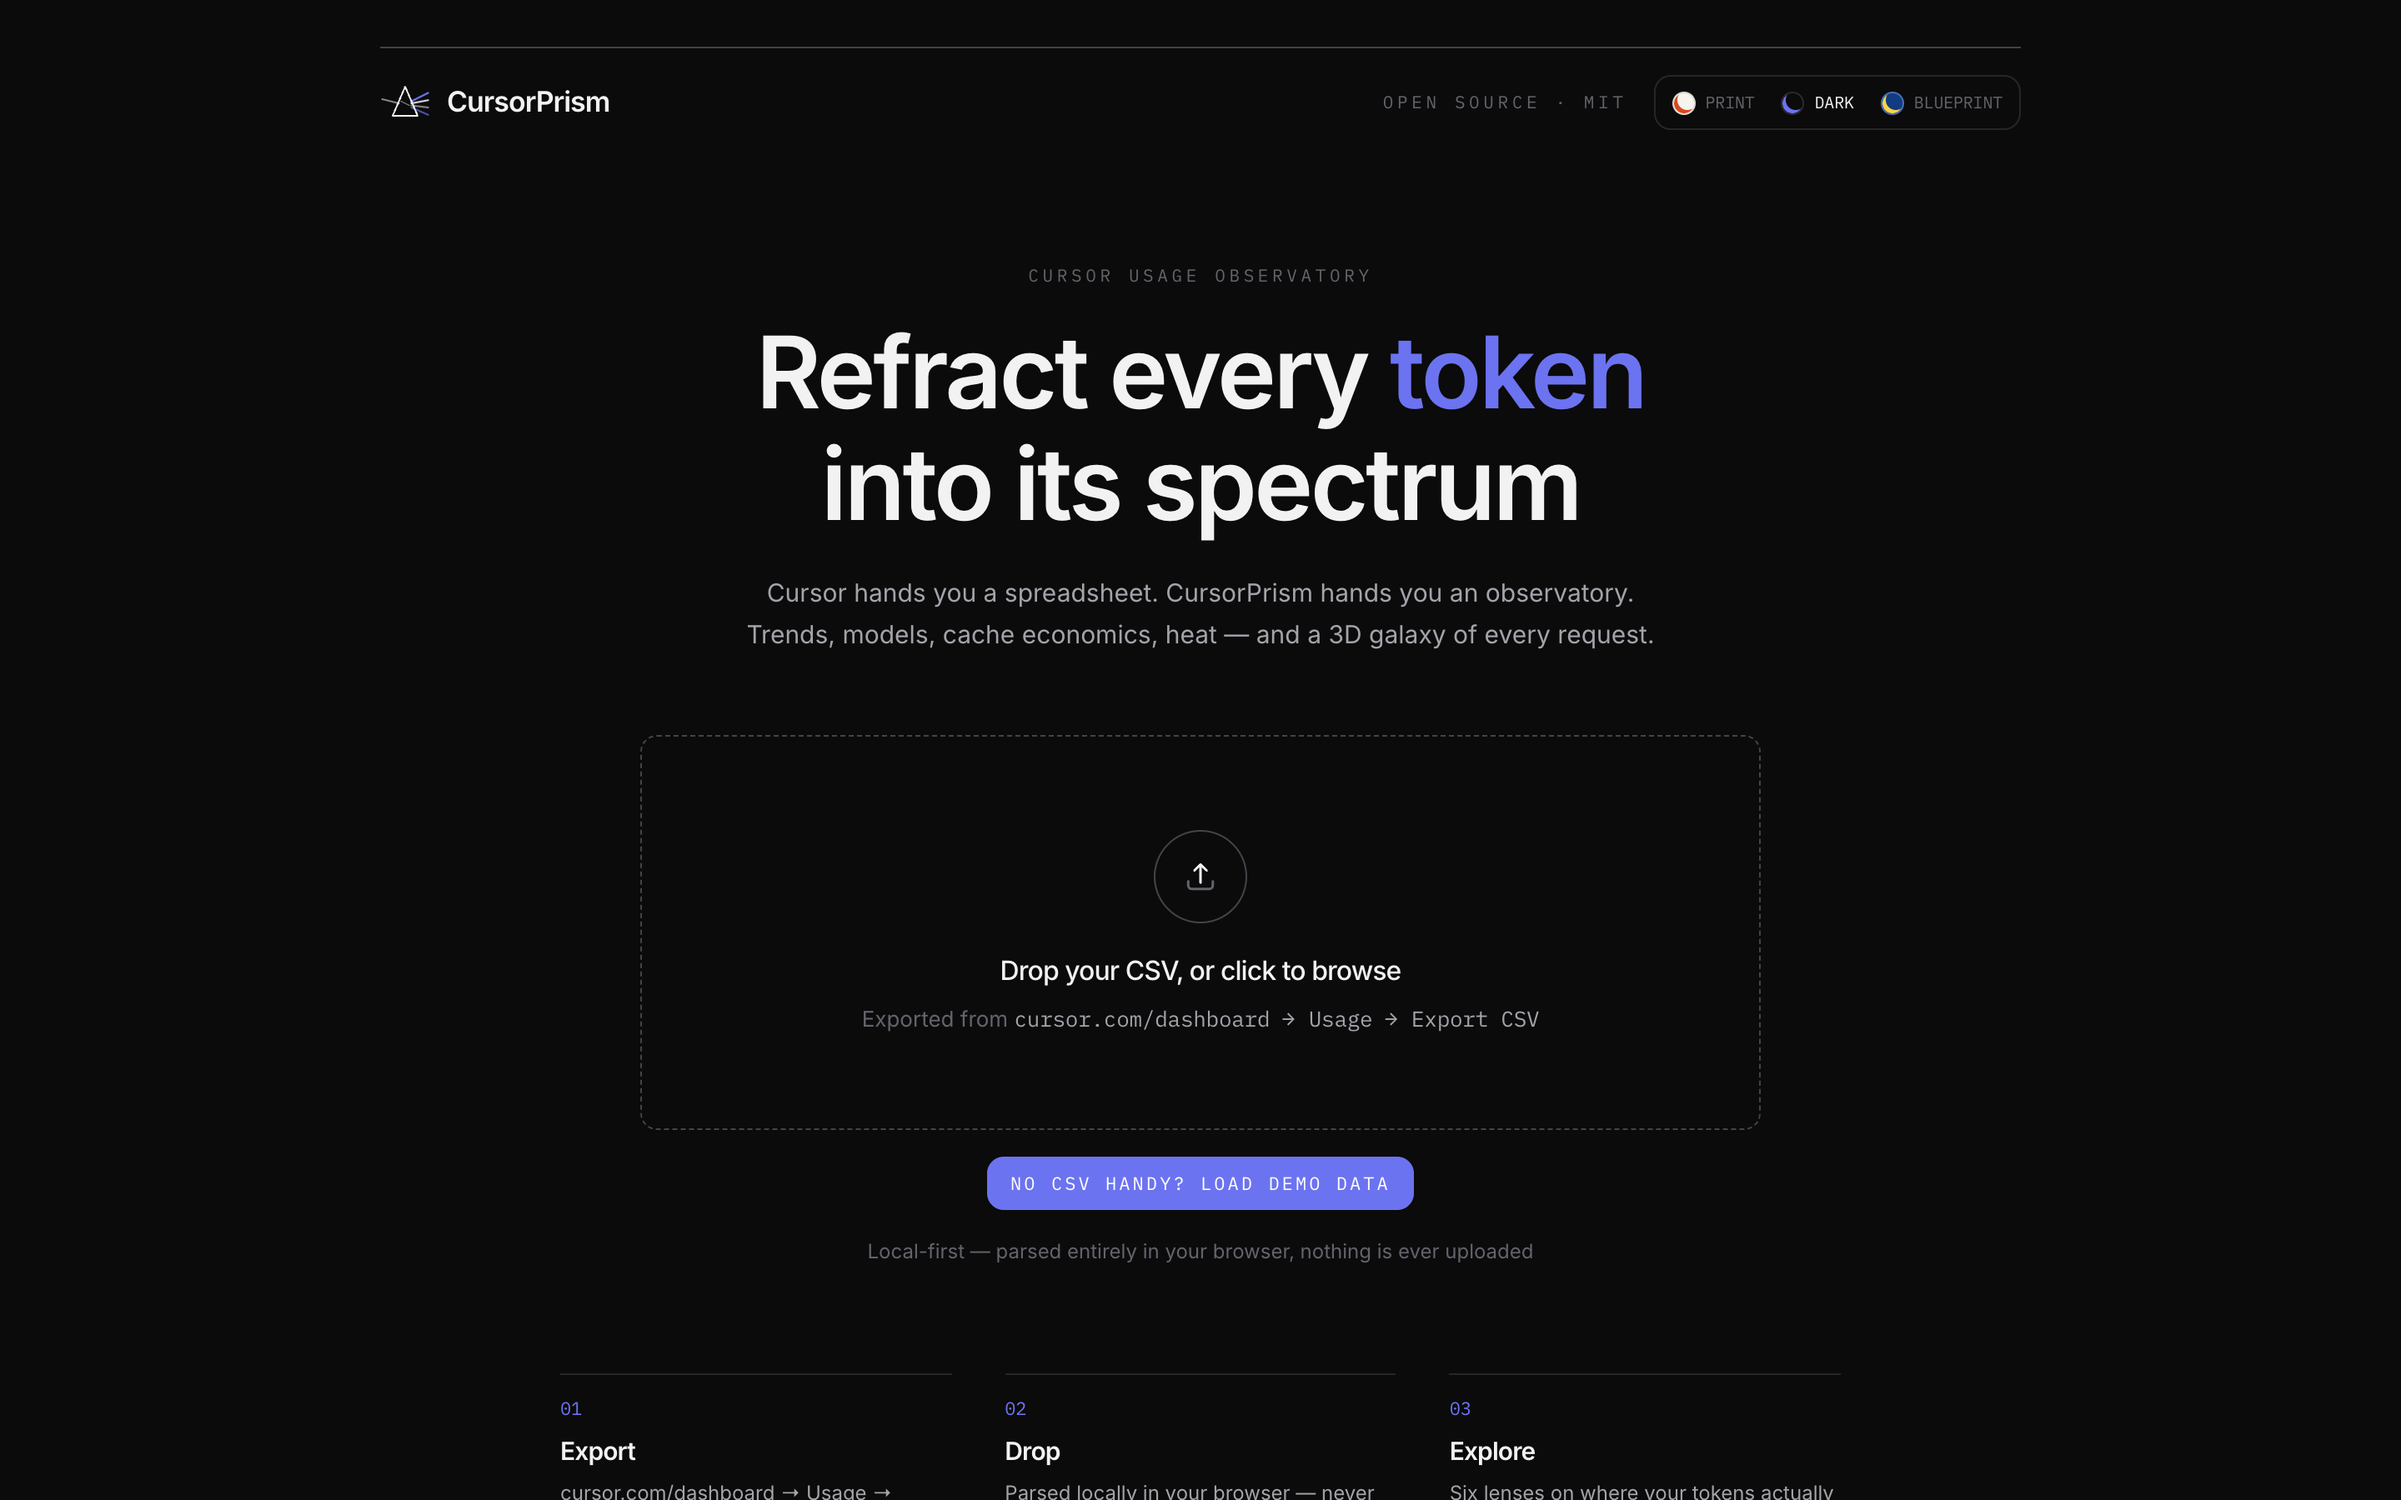
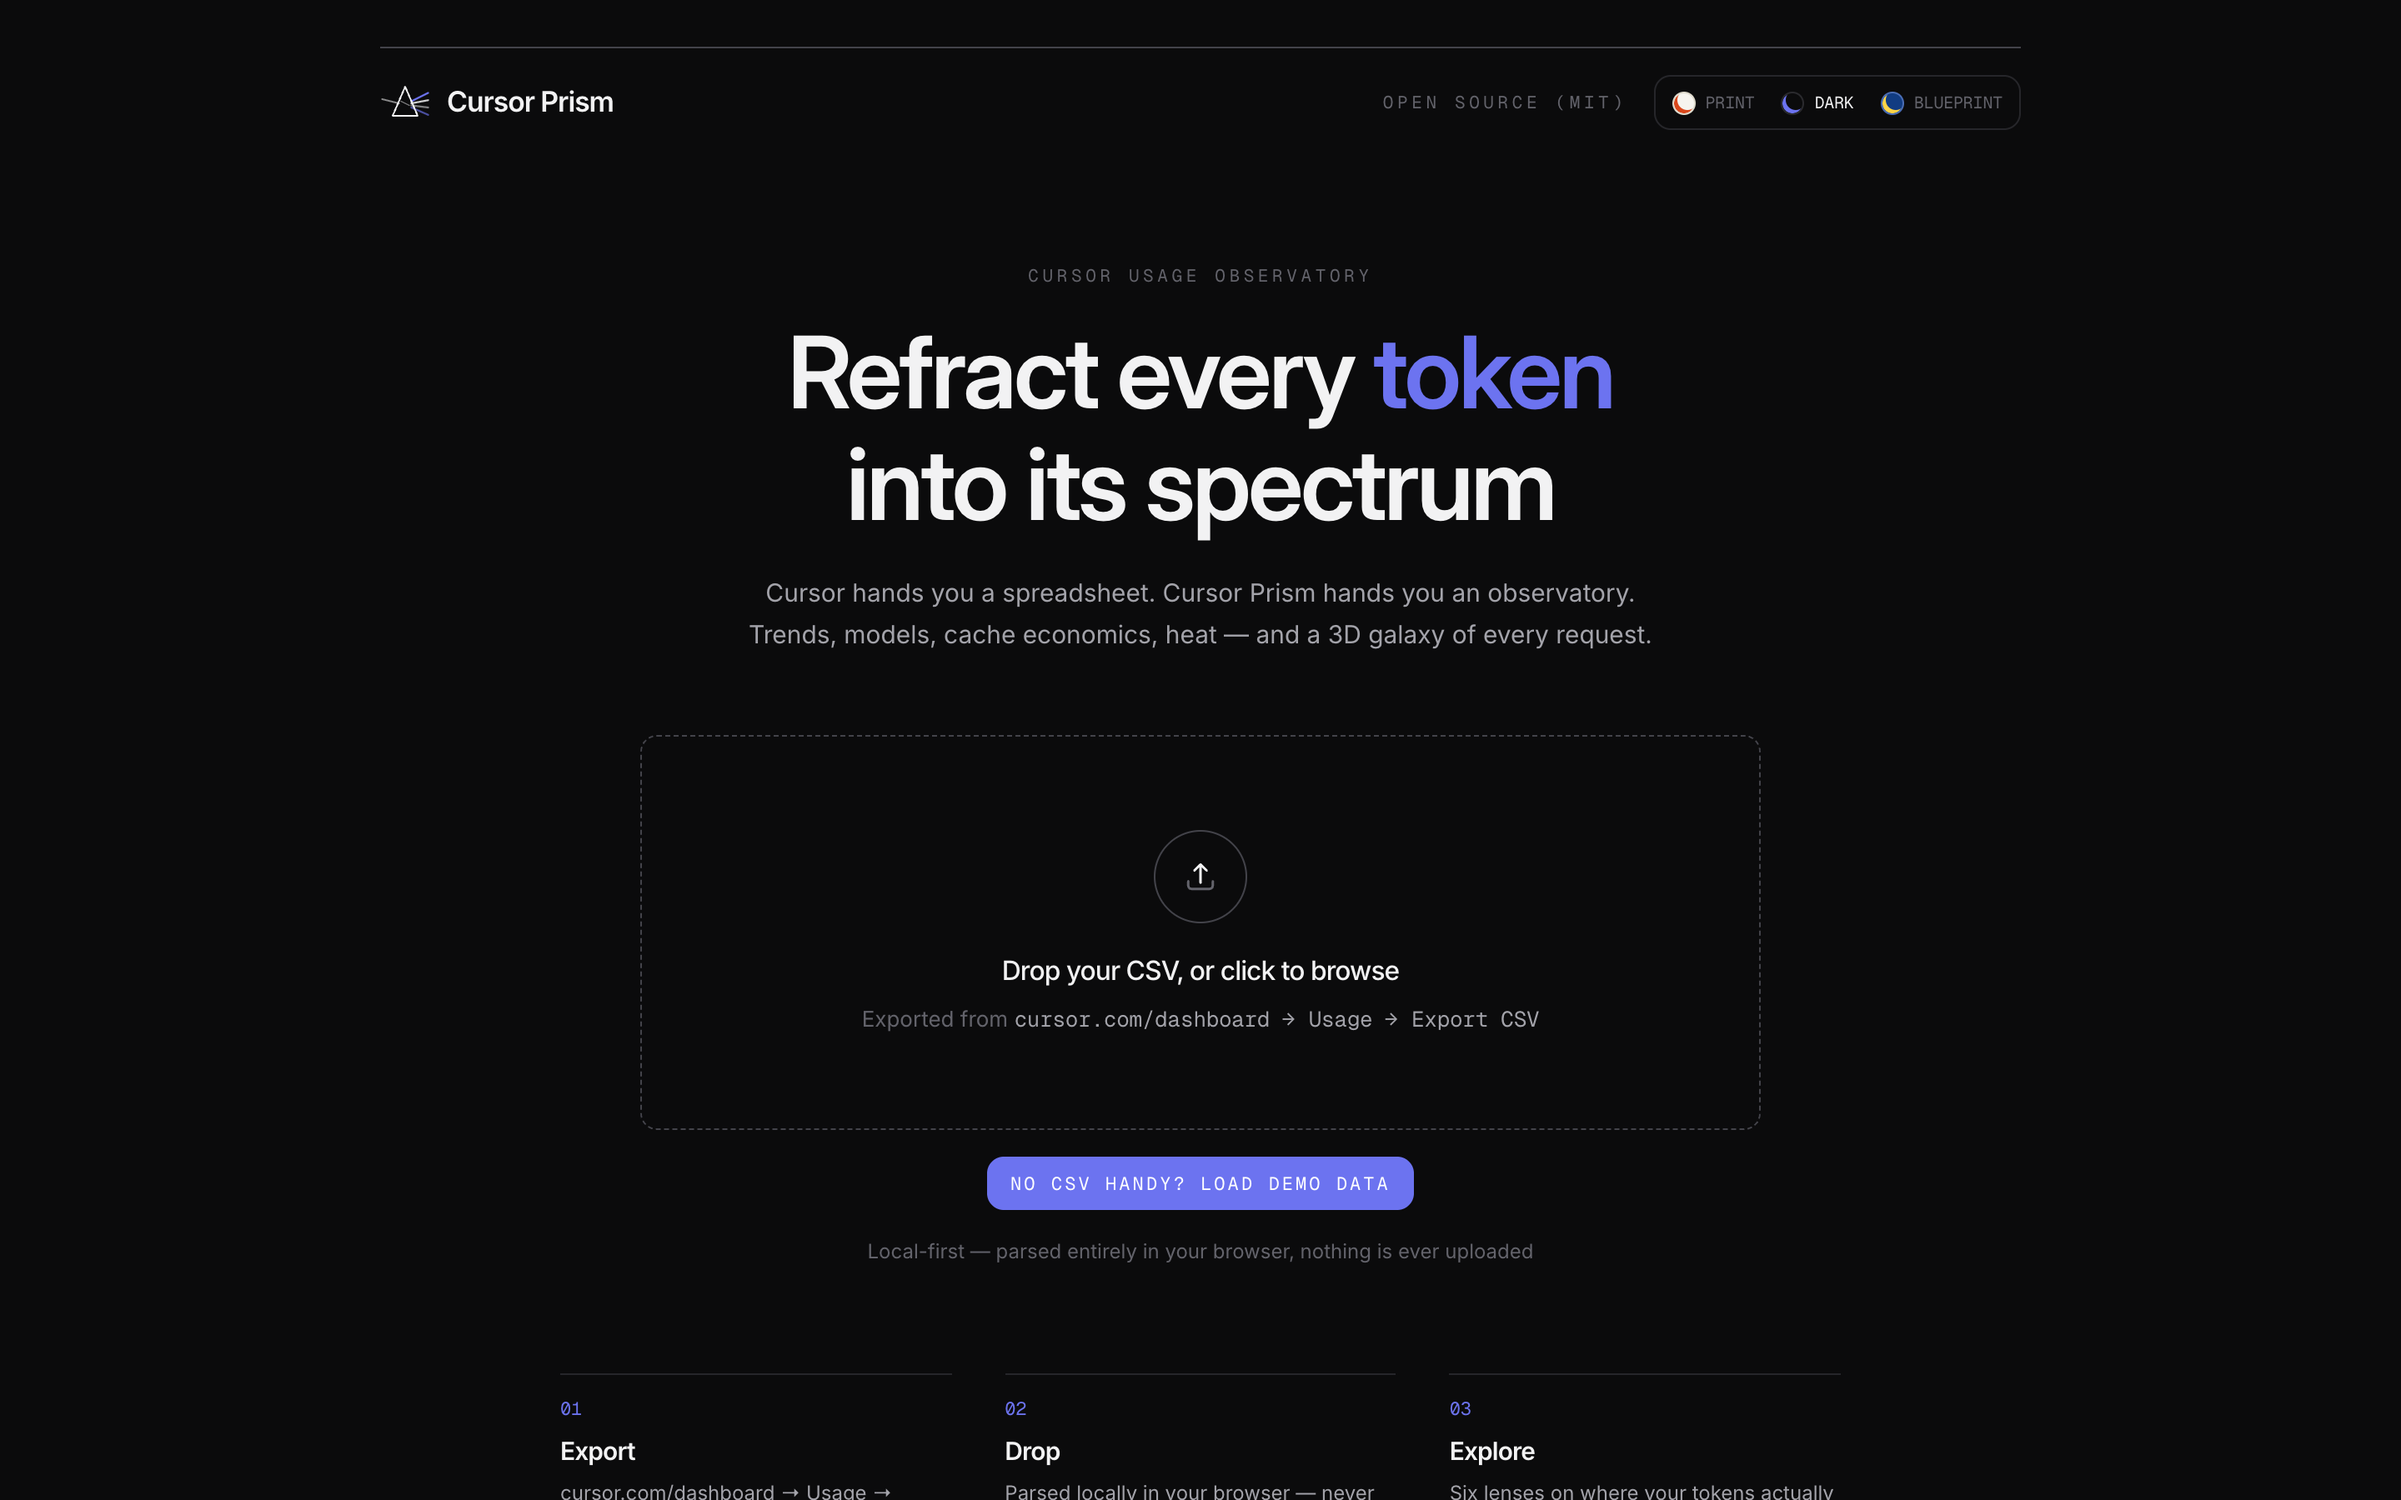
feat(fonts): Inter Variable, Georgia, Geist Mono
- Sans: Inter served as a single variable instance (opsz 14..32,
  wght 400..600) instead of three static weights
- Serif: Georgia for the Print theme display face — system font,
  zero font-loading cost on the editorial theme
- Mono: Geist Mono replaces IBM Plex Mono (kickers, numerals,
  the whole Blueprint theme)
- Docs screenshots regenerated with the new faces

diff --git a/src/styles.css b/src/styles.css
@@ -1,7 +1,7 @@
 @import "tailwindcss";
 
 @theme {
-	--font-mono: "IBM Plex Mono", ui-monospace, "SF Mono", Menlo, Consolas, monospace;
+	--font-mono: "Geist Mono", ui-monospace, "SF Mono", Menlo, Consolas, monospace;
 }
 
 /* ==========================================================================
@@ -21,7 +21,7 @@
 	--accent: #d9481c;
 	--accent-ink: #fffef9;
 	--radius: 2px;
-	--font-display: "Fraunces", Georgia, "Times New Roman", serif;
+	--font-display: Georgia, "Times New Roman", serif;
 	--font-body: "Inter", -apple-system, "Helvetica Neue", sans-serif;
 }
 
@@ -53,8 +53,8 @@
 	--accent: #ffd447;
 	--accent-ink: #113c82;
 	--radius: 2px;
-	--font-display: "IBM Plex Mono", ui-monospace, monospace;
-	--font-body: "IBM Plex Mono", ui-monospace, monospace;
+	--font-display: "Geist Mono", ui-monospace, monospace;
+	--font-body: "Geist Mono", ui-monospace, monospace;
 }
 
 /* ==========================================================================

diff --git a/src/routes/__root.tsx b/src/routes/__root.tsx
@@ -43,7 +43,7 @@ export const Route = createRootRoute({
 			},
 			{
 				rel: "stylesheet",
-				href: "https://fonts.googleapis.com/css2?family=Fraunces:opsz,wght@9..144,400;9..144,500;9..144,600&family=IBM+Plex+Mono:wght@400;500&family=Inter:wght@400;500;600&display=swap",
+				href: "https://fonts.googleapis.com/css2?family=Geist+Mono:wght@400;500&family=Inter:opsz,wght@14..32,400..600&display=swap",
 			},
 		],
 	}),

diff --git a/README.md b/README.md
@@ -14,7 +14,7 @@ One semantic token system, three complete looks. Switch from the top bar — the
 
 | Print | Dark | Blueprint |
 | --- | --- | --- |
-| Editorial paper: Fraunces serif, ruled hairlines, vermilion accent, flat infographics | Precision tool: near-black, Inter, indigo accent, zero glow | Technical drawing: IBM Plex Mono, graph paper, construction dashes, one amber highlight |
+| Editorial paper: Georgia serif, ruled hairlines, vermilion accent, flat infographics | Precision tool: near-black, Inter, indigo accent, zero glow | Technical drawing: Geist Mono, graph paper, construction dashes, one amber highlight |
 | ![Print](docs/screenshots/print-galaxy.png) | ![Dark](docs/screenshots/dark-galaxy.png) | ![Blueprint](docs/screenshots/blueprint-galaxy.png) |
 
 ## Six lenses
